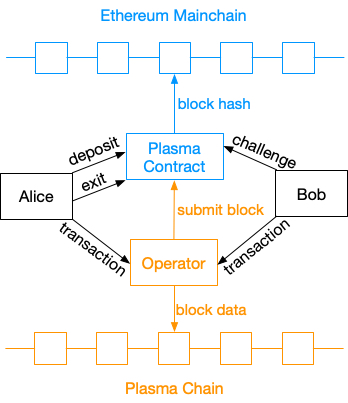
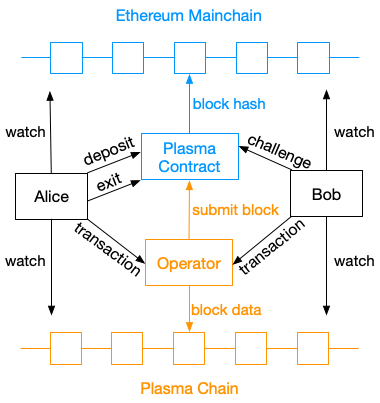
finished plasma mvp

diff --git a/Plasma-in-depth/plasma-mvp.md b/Plasma-in-depth/plasma-mvp.md
@@ -1,6 +1,6 @@
 ## 深入理解Plasma（三）Plasma MVP
 
-> 这一系列文章将围绕以太坊的二层扩容框架，介绍其基本运行原理，具体操作细节，安全性讨论以及未来研究方向等。本篇文章主要介绍 Plasma 的一个最小实现 Plasma MVP（Minima Viable Plasma）。
+> 这一系列文章将围绕以太坊的二层扩容框架 Plasma，介绍其基本运行原理，具体操作细节，安全性讨论以及未来研究方向等。本篇文章主要介绍 Plasma 的一个最小实现 Plasma MVP（Minima Viable Plasma）。
 
 在[上一篇](https://github.com/gitferry/mastering-ethereum/blob/master/Plasma-in-depth/plasma-in-detail.md)文章中我们已经理解了 Plasma 中的一些关键操作，但是 Plasma 是一套框架，如果脱离了实际的应用，仍然很难彻底理解它。因此本篇将详细介绍 Plama 的第一个项目 Plasma MVP（Minimal Viable Plasma），即在 Plasma 框架下的最基础的实现。Plasma MVP 是 Vitalic 和他的团队在 2018 年初提出的基于 UTXO 模型实现的 Plasma 设计标准[[1]](https://ethresear.ch/t/minimal-viable-plasma/426)，它以最简单的方式实现了链下交易，但无法支持复杂的计算，例如脚本（Script）和智能合约。在阅读下面的内容之前，请确保已经理解了这个系列之前的文章。
 
@@ -27,33 +27,71 @@ Plasma 合约中主要包括的函数有：
 ### Operator
 在前面的文章中我们已经知道 Plasma 子链是一个独立的区块链，那么也就有独立的共识机制。在 Plasma MVP 中采用的共识机制就是 PoA（Proof of Authority），即参与共识的只有唯一一个矿工，称为 Operator。Operator 负责处理所有子链上发生的交易，将其打包成区块存储在子链上，并且周期性地向 Plasma 合约提交区块，将子链上的状态（区块的哈希值）提交到主链共识。那么，既然 Operator 是唯一的矿工，这不就意味着 Plasma 违背了去中心化的初衷了吗？其实，这是去中心化向执行效率的妥协。在之前的文章中也提到过，Plasma 的安全基础依赖于底层的区块链，只要底层的区块链能够保证安全，那么在 Plasma 子链上发生的最差结果也只是迫使用户退出子链，而不会造成资产损失。
 
+Operator 可以采用最简单的 REST API 方式实现，子链中的用户可以通过调用简单的 API 获取到子链中区块的数据。
+
 ### 存款（deposit）
 用户 Alice 通过存款（deposit）操作向 Plasma 合约发送带有一定数额的以太币或 ERC20 token 加入 Plasma Chain，这时 Plasma 合约会执行 deposit() 函数，生成一个只包含一个交易的区块，这个交易的 UTXO 记录了 Alice 从主链转移到子链的数额。当这个区块被主链确认后，Alice 就可以使用新生成的 UTXO 向其它用户发送交易了。
 
 ### 交易（transaction）
 在 Plasma MVP 中，所有用户发送的交易都是直接发送给 Operator，当积累了一定数量的交易后，由 Operator 将交易打包成区块。这里需要注意的是，由于 Plasma MVP 采用的是 UTXO 模型，所以即使交易的收款方不存在，交易也是成立的。
 
+在子链上 Alice 向 Bob 发送一个交易的流程如下：
+
+1. Alice 首先需要得到 Bob 在子链上的地址；
+2. Alice 将一个或多个 UTXO 作为输入构造交易发送到 Bob 的地址，并对交易签名；
+3. 等待该交易被打包到区块中；
+4. Alice 向 Bob 发送确认消息，并且使用相同的私钥签名。
+
 ### 生成区块
 
 在 Plasma MVP 中，一个 Plasma 区块产生的情况只有两种：一种是 Operator 打包生成区块，另外一种是当用户执行 deposit 操作时，由 Plasma 合约直接生成一个只包含一个交易的区块。
 
-### 确认签名（Confirmation Signatures）
-TODO
-
 ### 监视子链
-TODO
+为了保证子链上资产的安全，用户需要周期性地检查子链上的数据，保证没有恶意交易产生。用户需要运行一种自动化的软件（例如钱包），每隔一段时间下载子链中的区块数据，检查每个区块中的交易，如果有恶意交易产生，立即退出子链。
 
-### 取款（withdrawal/exit）
-当 Alice 想要退出子链时，需要向 Plasma 合约发送一个 exit 交易，申请中需要包含（1）所要退出的 UTXO 的位置，包括区块号（blknum）、区块内交易号（txindex）以及交易内输出号（outindex）（2）包含该 UTXO 的交易（3）该交易的 Merkle proof（4）用于生成该 UTXO 所涉及的之前一系列交易的确认签名。之后这个申请会被放入一个优先队列中，通过这个公式计算优先级：
+### 取款/退出（withdrawal/exit）
+当 Alice 想要退出子链时，需要向 Plasma 合约发送一个 exit 交易，申请中需要包含（1）所要退出的 UTXO 的位置，包括区块号（blknum）、区块内交易号（txindex）以及交易内输出号（outindex）（2）包含该 UTXO 的交易（3）该交易的 Merkle proof（4）用于生成该 UTXO 所涉及的之前一系列交易的确认签名。除此之外，exit 交易中还要包含“退出押金（exit bond）”。如果这个 exit 被 challenge 成功，那么取款的操作将被取消，而且退出押金将被发送给提出 challenge 的用户。
+
+之后这个申请会被放入一个优先队列中，通过这个公式计算优先级：
 
 >Priority = blknum * 1000000000 + txindex * 10000 + oindex
 
-合约通过调用 startExit() 函数执行对给定 UTXO 的退出操作。
+之所以采用这种优先队列的方式处理取款顺序的原因是保证旧的 UTXO 总能优先于新的 UTXO 被取出。也就是说，当有恶意交易（例如双花等）产生时，所有在恶意交易发生之前的交易都可以被优先取出。那么如何解决在恶意交易之后被确认的交易的取款问题呢？Plasma MVP 采用了“确认签名（Confirmation Signatures）”的机制，在下一小节我们将介绍这一机制是如何工作的。
+
+### 确认签名（Confirmation Signatures）
+
+在 Plasma MVP 中，用户的退出顺序以所要退出的 UTXO 所在的交易的位置为准。假如 operator 作恶，在一个合法的交易之前插入一个非法的交易，那么当用户执行取款时，由于非法交易可以先被取出，因此当执行到该用户的交易时，可能 Plasma 合约中的资产已经被取空。为了解决这个问题，Plasma MVP 采用了“确认签名”机制，例如当 Alice 产生一个交易时，她首先会对交易签名。当该交易被打包入区块后，Alice 还需要对该交易进行一次签名，即“确认签名”。
+
+引入确认签名机制后，当 Alice 发现在一个区块中自己的合法交易之前存在非法交易时，可以拒绝对自己的交易进行“确认签名”，同时申请取款。这样可以使得当前的交易失效，保证自己之前“确认签名”后的交易可以优先于非法交易之前取出。
+
+这种确认签名机制极大地破坏了用户体验，用户每产生一个交易都要经历签名->等待确认->确认签名。而且由于确认签名也需要占据 Plasma 区块的空间，因此也降低了子链的可扩展性。为了解决这个问题，Plasma 的研究人员提出了扩展版本 More Viable Plasma 移除了确认签名的要求[[2]](https://ethresear.ch/t/more-viable-plasma/2160)。
 
 ### 争议（Challenge）
-在 Alice 的某个 UTXO 退出子链的过程中，如果 Bob 发现有恶意行为发生，他可以提出一个争议（challenge）。一个争议需要给出针对的 UTXO 的位置，以及该 UTXO 被花费的证明，即该 UTXO 已经存在于某个交易中，且这个交易已经被打包到区块。
+每个取款操作都会经历一个争议期。例如在 Alice 的某个 UTXO 退出子链的过程中，如果 Bob 在争议期内发现有恶意行为发生，他可以提出一个争议（challenge）。一个争议需要给出针对的 UTXO 的位置，以及该 UTXO 被花费的证明，即该 UTXO 已经存在于某个交易中，且这个交易已经被打包到区块。
 
-合约通过调用 challengeExit() 函数执行一个争议，争议成功后会取消正在执行的取款操作。
+合约通过调用 challengeExit() 函数执行一个争议，争议成功后会取消正在执行的取款操作，并将提交取款申请所冻结的押金发送给 Bob。
+
+### 攻击场景
+
+在 Plasma 子链中主要存在两种攻击场景：
+
+1. Alice 试图忽视在子链中转移给 Bob 的资产，使用最初加入 Plasma 子链时的交易证明向主链提出取款申请。
+2. Operator 生成一个恶意交易，占有其他用户的资产，并且尝试退出子链。
+
+下面对这两个攻击场景进行分析，观察 Plasma MVP 如何保证资产的安全性：
+
+####场景1
+1. Alice 使用最初加入子链时生成的交易作为证据向主链提出取款申请；
+2. Bob（或者其他任意用户）拥有 Alice 申请退出的 UTXO 被花费的交易证明，并将此作为证据向主链提出一个争议；
+3. 争议生效，Alice 的退出申请被驳回，同时将 Alice 申请退出的押金发送给 Bob；
+4. Alice 的攻击失效。
+
+####场景2
+1. Operator 创建了一个非法交易，并且将其打包生成区块之后在主链得到确认；
+2. Operator 提交取款申请，打算将 Alice 的资产取走；
+3. 在争议期内，Alice 发现了 Operator 的恶意行为，立即提出取款申请，退出子链；
+4. 由于 Alice 的申请优先级较高，因此会在 Operator 之前退出；
+5. Operator 的攻击失效。
 
 ### 相关项目
 
@@ -61,17 +99,18 @@ TODO
 
 目前已经有许多机构和公司已经实现了 Plasma MVP，但实现的语言和细节有所不同：
 
-* FourthState Lab[[2]](https://github.com/fourthstate)
-* Omisego[[3]](https://github.com/omisego/plasma-mvp)
-* Kyokan[[4]](https://github.com/kyokan/plasma)
+* FourthState Lab[[3]](https://github.com/fourthstate)
+* Omisego[[4]](https://github.com/omisego/plasma-mvp)
+* Kyokan[[5]](https://github.com/kyokan/plasma)
 
 ### 总结
 
-本文介绍了 Plasma 的最小实现版本 Plasma MVP，虽然采用最简单的 UTXO 模型，但已经足够体现出 Plasma 的核心思想。接下来的文章将会介绍另外一个稍微复杂一点的项目，Plasma Cash。
+本文介绍了 Plasma 的最小实现版本 Plasma MVP，虽然采用最简单的 UTXO 模型，但已经足够体现出 Plasma 的核心思想。在 Plasma MVP 中，用户资产的安全主要依赖于用户及时发现恶意行为，并退出子链。接下来的文章将会介绍另外一个稍微复杂一点的项目，Plasma Cash。
 
 ### 相关资源
 
 1. [https://ethresear.ch/t/minimal-viable-plasma/426](https://ethresear.ch/t/minimal-viable-plasma/426)
+2. [https://ethresear.ch/t/more-viable-plasma/2160](https://ethresear.ch/t/more-viable-plasma/2160)
 2. [https://github.com/fourthstate](https://github.com/fourthstate)
 3. [https://github.com/omisego/plasma-mvp](https://github.com/omisego/plasma-mvp)
 4. [https://github.com/kyokan/plasma](https://github.com/kyokan/plasma)
